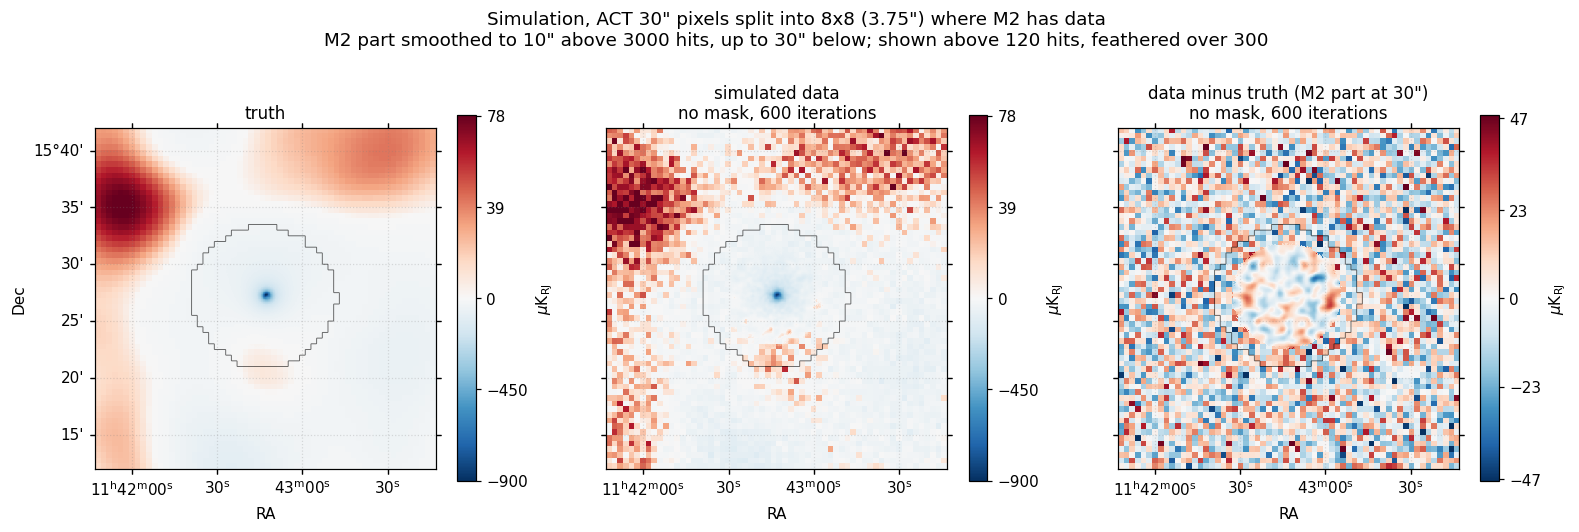
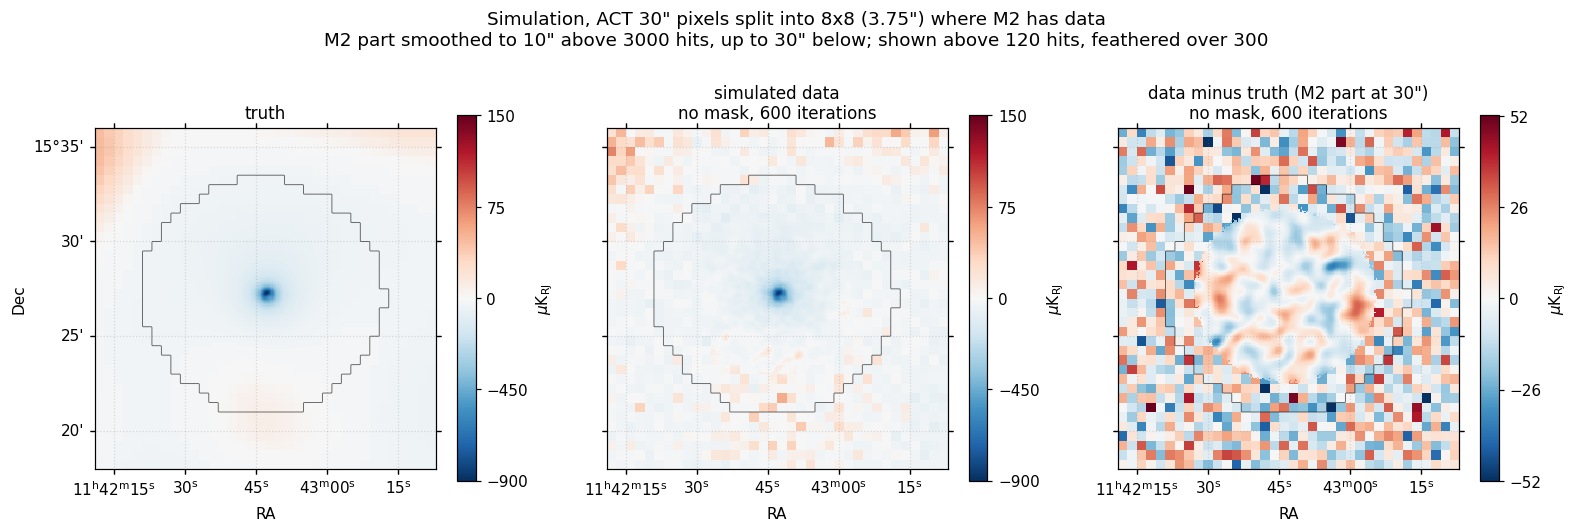
feat: multiscale maps default to an 18 arcmin field; simulation colour scale from truth and data

diff --git a/examples/sim_multiscale.py b/examples/sim_multiscale.py
@@ -114,7 +114,8 @@ def main(args: argparse.Namespace):
         )
         rows.append((label, truth, data, res, split))
 
-    norm = make_norm(rows[0][1], args)
+    # one scale for truth and data, from both, so that the noise in the data stays inside it
+    norm = make_norm(np.concatenate([np.concatenate([r[1], r[2]]) for r in rows]), args)
     rlim = (
         args.res_lim
         or np.percentile(np.abs(np.concatenate([r[3].ravel() for r in rows])), 99.5)
@@ -181,7 +182,7 @@ if __name__ == "__main__":
         "--act-beam", type=float, default=2.1, help="ACT beam FWHM, arcmin"
     )
     parser.add_argument("--freq", type=float, default=90e9)
-    parser.add_argument("--size", type=float, default=30.0, help="arcmin")
+    parser.add_argument("--size", type=float, default=18.0, help="arcmin")
     parser.add_argument("--factor", type=int, default=8)
     parser.add_argument(
         "--min-hits", type=float, default=20, help="Hits for an ACT pixel to be split"

diff --git a/examples/multiscale_map.py b/examples/multiscale_map.py
@@ -457,7 +457,7 @@ if __name__ == "__main__":
         "--freq", type=float, default=90e9, help="Hz, for the ACT unit conversion"
     )
     parser.add_argument(
-        "--size", type=float, default=30.0, help="Side of the map, arcmin"
+        "--size", type=float, default=18.0, help="Side of the map, arcmin"
     )
     parser.add_argument(
         "--factor",
